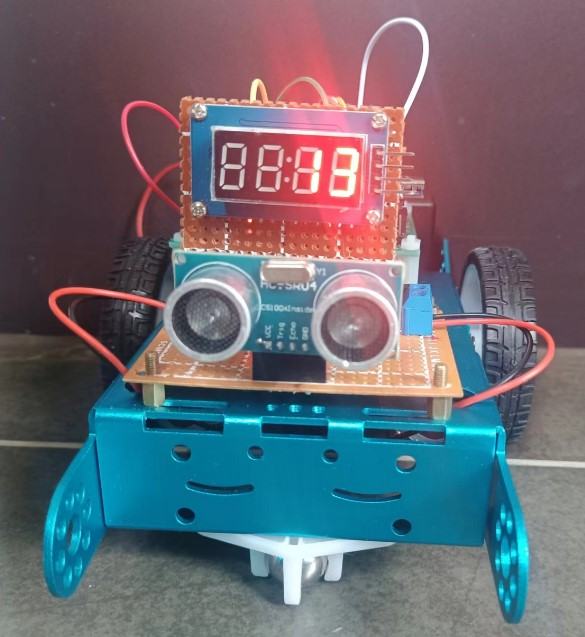
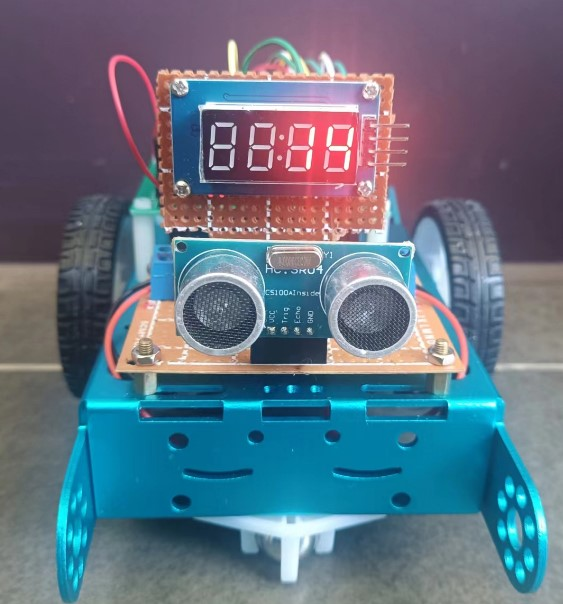
doc

diff --git a/ESP32_C3/README.md b/ESP32_C3/README.md
@@ -8,6 +8,8 @@
 * 超声避障
 * 数码管显示前方物体距离
 
+![](img/mini_car.jpg)
+
 以有利于学习的原则进行小车硬件的设计。设计了：
 
 * ESP32-C3开发扩展板。开发扩展板引出所有接口，提供锂电池电源的连接端子，方便开发
@@ -15,14 +17,17 @@
 
 小车控制系统通过杜邦线连接两板实现。
 
-![](img/mini_car.jpg)
+![](img/mini_car_real_boards.jpg)
 
 ## WIFI遥控
 
 1. 打开控制板上的电源，启动小车WIFI服务
-2. 连接小车的WIFI热点：ESP32-C3,  密码：12345678
-3. 浏览器访问小车Web服务：http://192.168.4.1
 
+2. 连接小车的WIFI热点：ESP32-C3,  密码：12345678
+
+![](img/mini_car_wifi_hotspot.jpg)
+
+3. 浏览器访问小车Web服务：http://192.168.4.1
 ![](img/web.jpg)
 
 ## 元件
@@ -168,7 +173,5 @@ int echoPin = 4;  // Echo 绿色
 ### 电源
 
 二节16850电池，连接开发扩展板的电源接线柱
-
-
-                        
+                      
 
